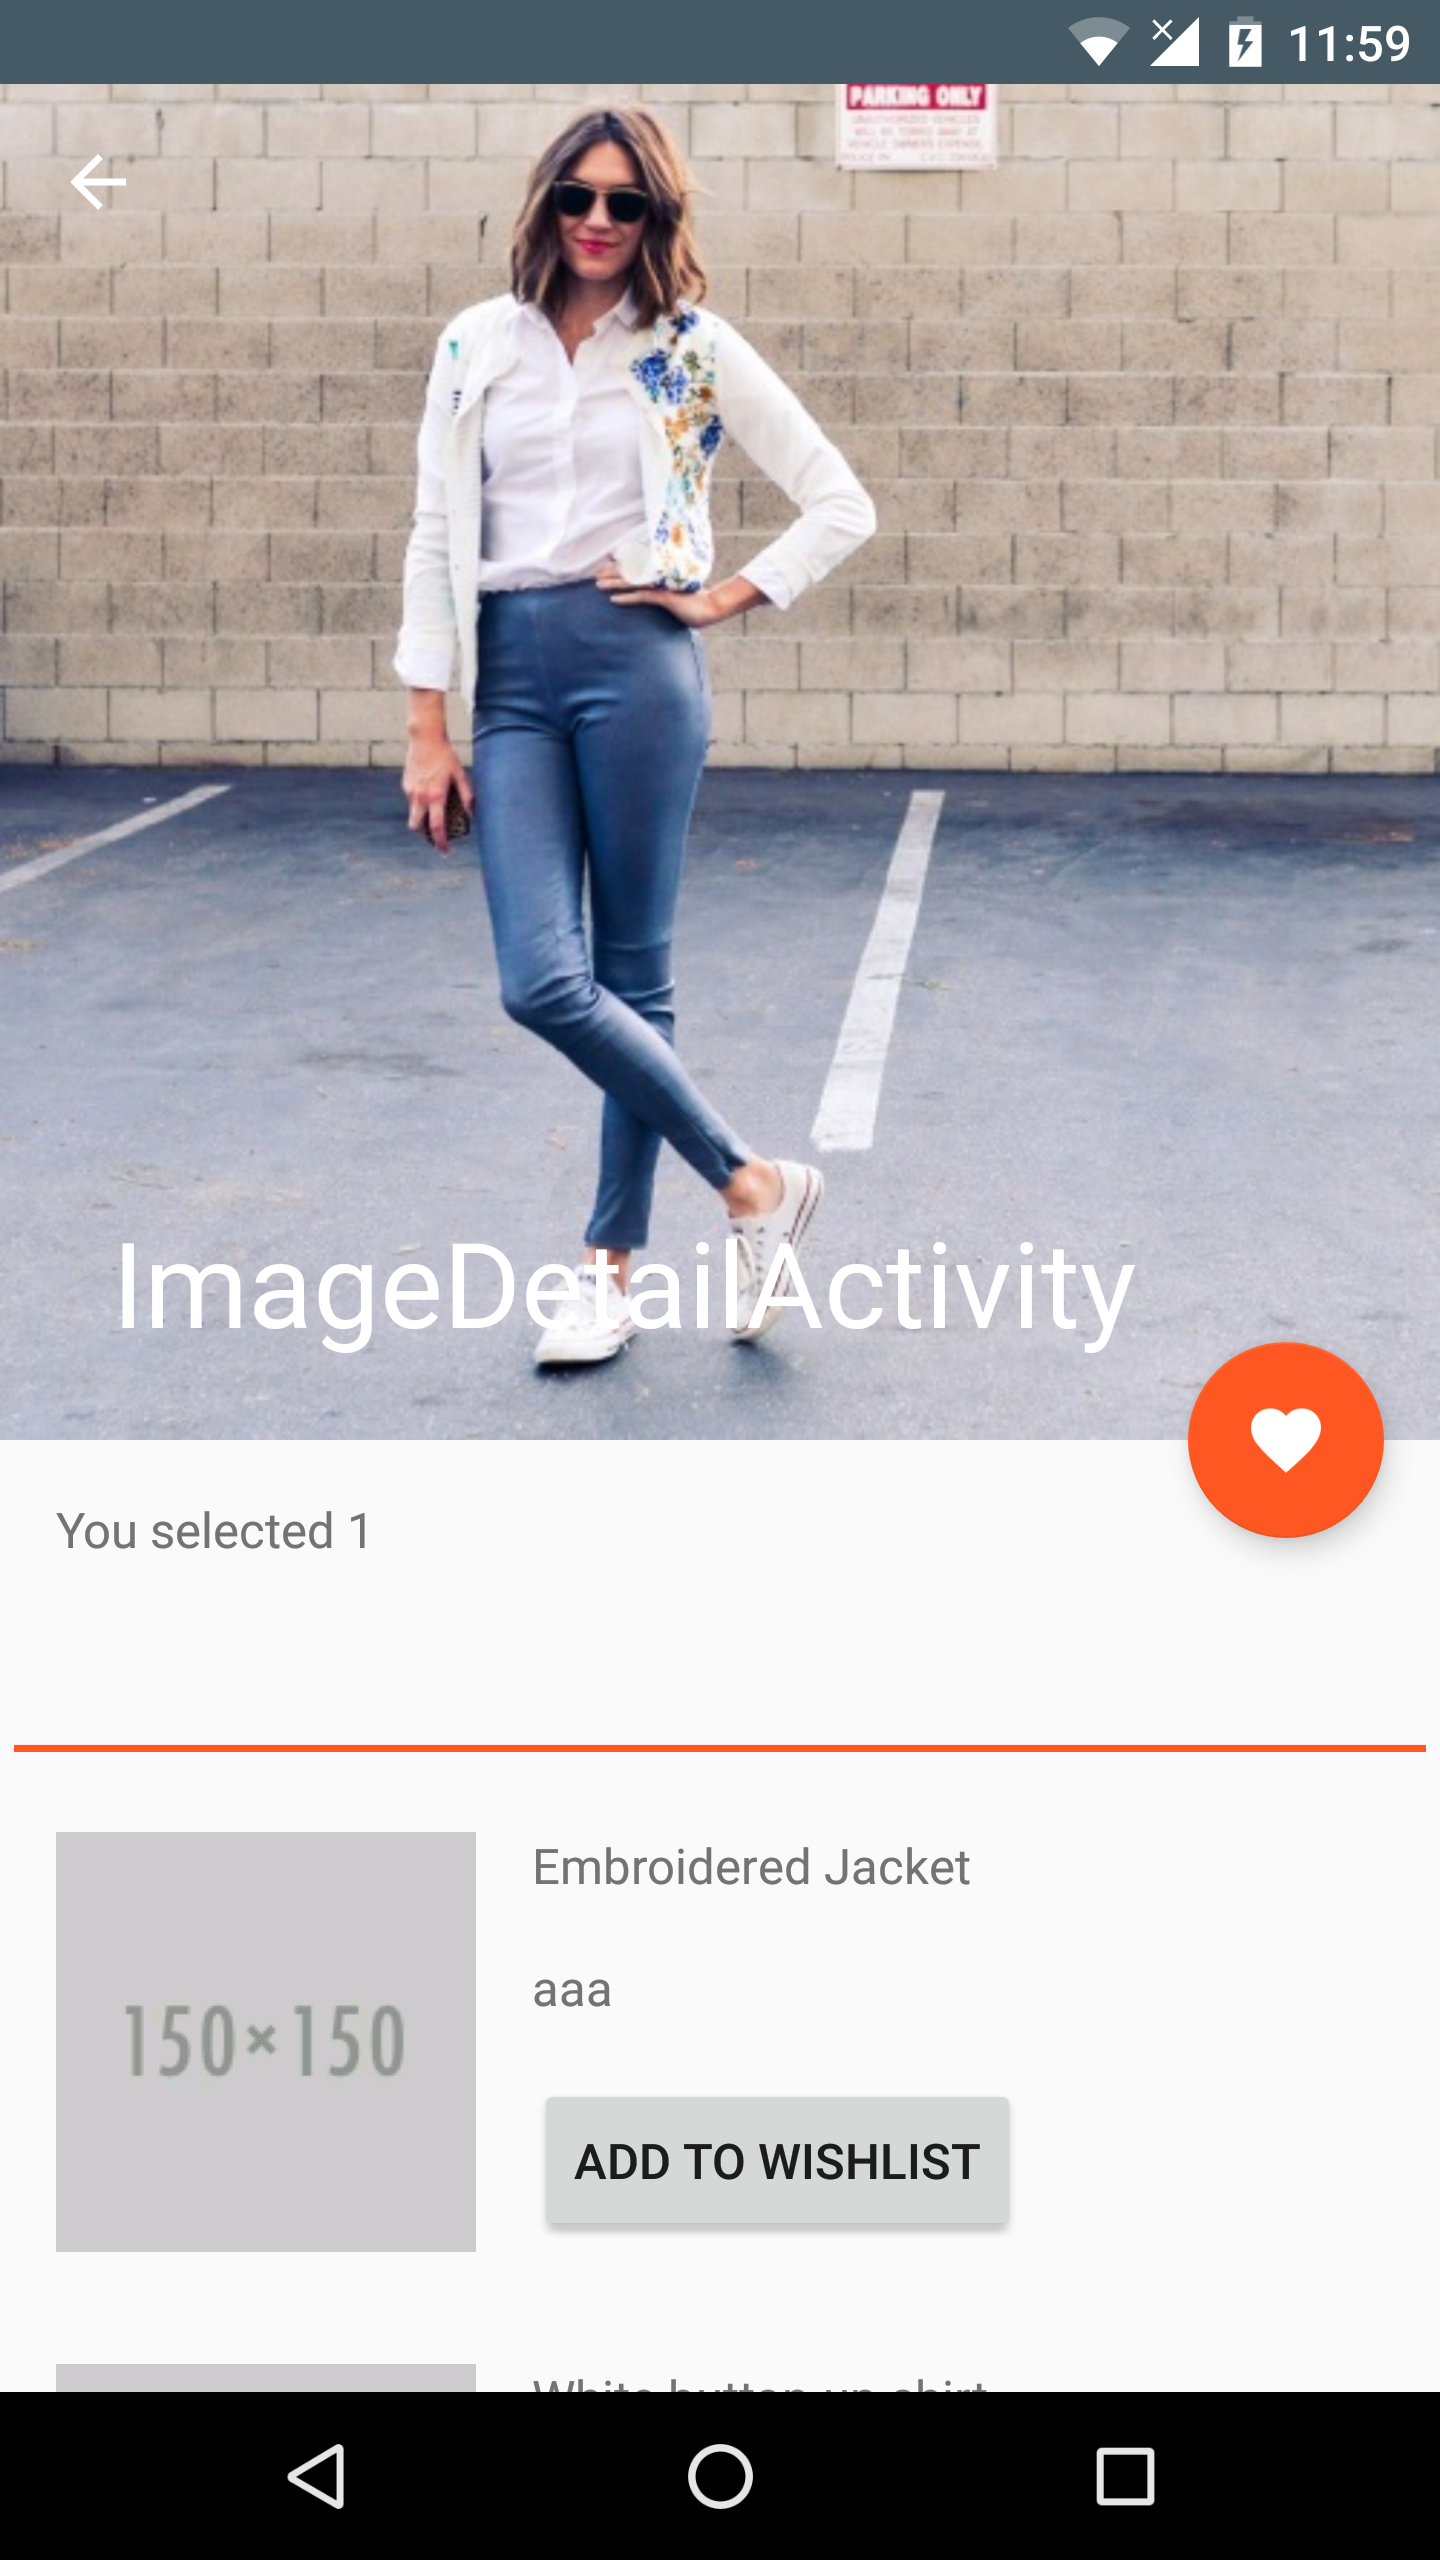
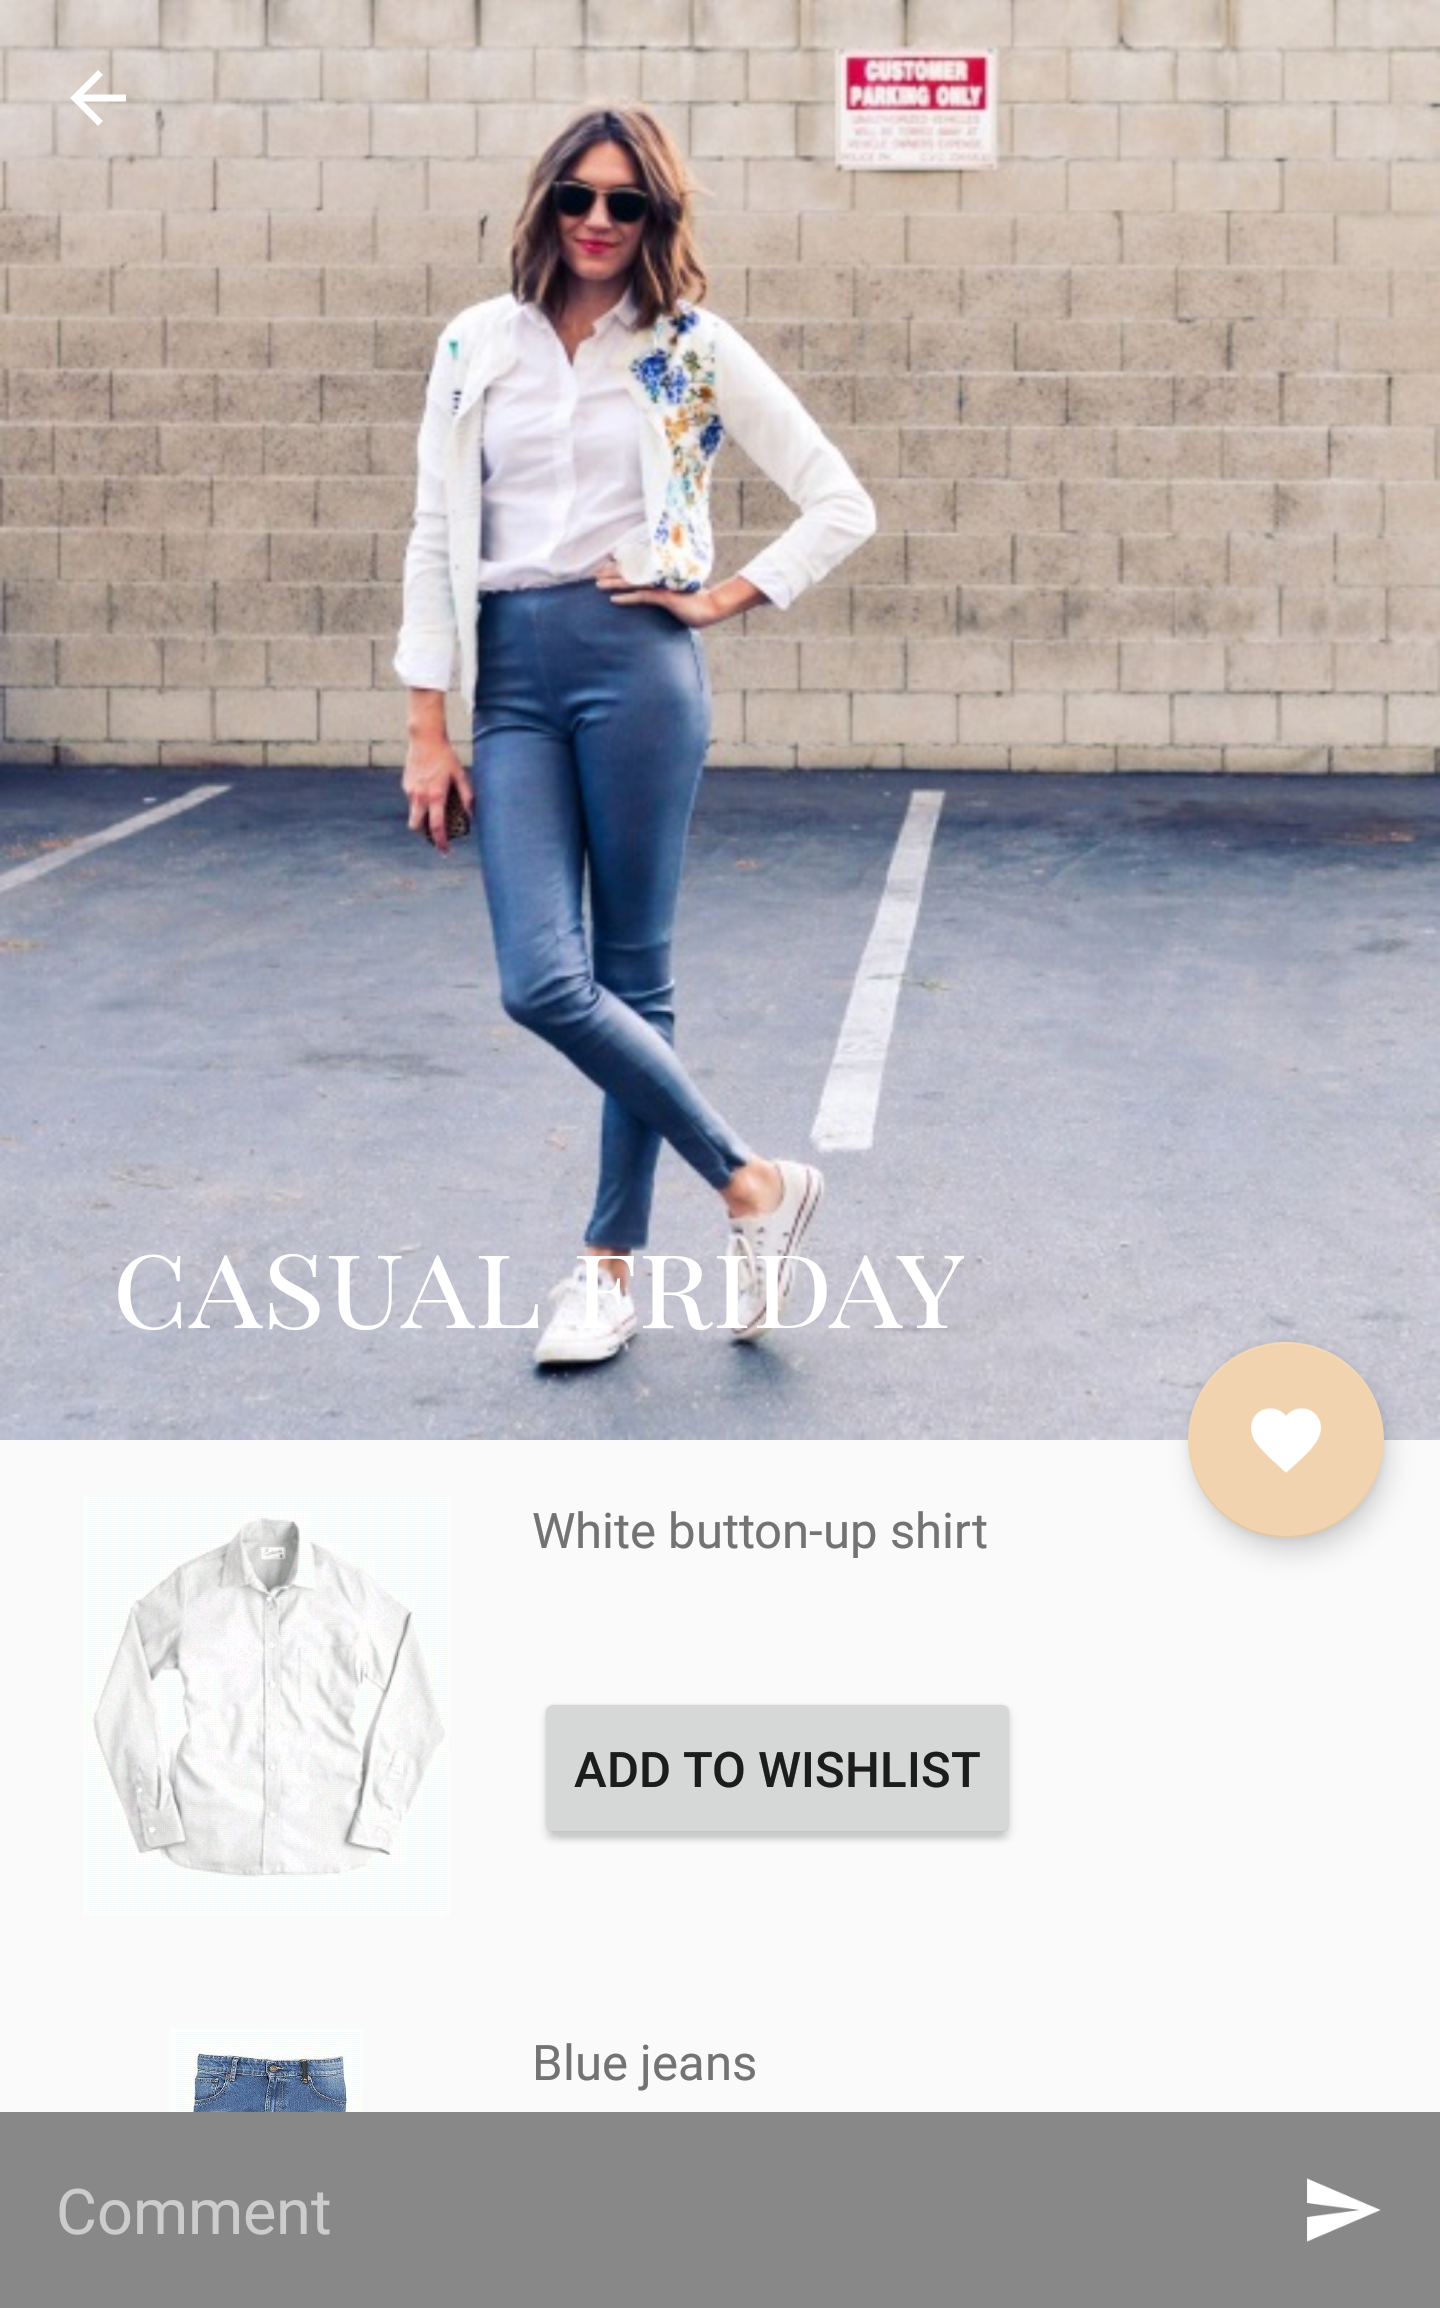
Tweak fonts and colours

diff --git a/app/src/main/java/com/qwissroll/statement/DashboardItemAdapter.java b/app/src/main/java/com/qwissroll/statement/DashboardItemAdapter.java
@@ -51,7 +51,7 @@ public class DashboardItemAdapter extends RecyclerView.Adapter<DashboardItemAdap
         int id = context.getResources().getIdentifier("ootd_" + item.getItemId(), "drawable", context.getPackageName());
         holder.mImageView.setImageDrawable(null);
         Glide.with(context).load(id).into(holder.mImageView);
-        holder.mButtonLike.setSelected(item.isLiked());
+        holder.mButtonLike.setActivated(item.isLiked());
         holder.mTextComment.setText("" + item.getComments().size());
         holder.mTextLike.setText("" + item.getLikes());
     }
@@ -62,7 +62,7 @@ public class DashboardItemAdapter extends RecyclerView.Adapter<DashboardItemAdap
             onBindViewHolder(holder, position);
         } else {
             final DashboardItem item = mItems.get(position);
-            holder.mButtonLike.setSelected(item.isLiked());
+            holder.mButtonLike.setActivated(item.isLiked());
             holder.mTextComment.setText("" + item.getComments().size());
             holder.mTextLike.setText("" + item.getLikes());
         }
@@ -122,7 +122,7 @@ public class DashboardItemAdapter extends RecyclerView.Adapter<DashboardItemAdap
                     case R.id.button_like:
                         mClickListener.onItemLikeClick(view, getAdapterPosition());
                         DashboardItem tag = mItems.get(getAdapterPosition());
-                        mButtonLike.setSelected(tag.isLiked());
+                        mButtonLike.setActivated(tag.isLiked());
                         notifyItemChanged(getAdapterPosition(), PAYLOAD_BUTTON_LIKE_CLICKED);
                         break;
                     case R.id.button_comment:

diff --git a/app/src/main/java/com/qwissroll/statement/activity/ImageDetailActivity.java b/app/src/main/java/com/qwissroll/statement/activity/ImageDetailActivity.java
@@ -1,7 +1,9 @@
 package com.qwissroll.statement.activity;
 
 import android.content.Intent;
+import android.graphics.Typeface;
 import android.os.Bundle;
+import android.support.design.widget.CollapsingToolbarLayout;
 import android.support.design.widget.FloatingActionButton;
 import android.support.design.widget.Snackbar;
 import android.support.v7.app.AppCompatActivity;
@@ -53,7 +55,13 @@ public class ImageDetailActivity extends AppCompatActivity implements DetailItem
             }
         });
 
-        getSupportActionBar().setTitle(item.getItemName());
+        getSupportActionBar().setTitle(item.getItemName().toLowerCase());
+
+        Typeface typeface = Typeface.createFromAsset(getAssets(),
+                "fonts/playfairdisplaysc_regular.ttf");
+        CollapsingToolbarLayout toolbarLayout = (CollapsingToolbarLayout) findViewById(R.id.toolbar_layout);
+        toolbarLayout.setExpandedTitleTypeface(typeface);
+        toolbarLayout.setCollapsedTitleTypeface(typeface);
 
         String imageSource = "ootd_" + itemId;
         int id = getResources().getIdentifier(imageSource, "drawable", getPackageName());

diff --git a/app/src/main/java/com/qwissroll/statement/data/ProductDataManager.java b/app/src/main/java/com/qwissroll/statement/data/ProductDataManager.java
@@ -19,9 +19,9 @@ public class ProductDataManager {
         items = new HashMap<Integer, ArrayList<DetailItem>>();
 
         ArrayList<DetailItem> first = new ArrayList<DetailItem>();
-        first.add(new DetailItem(12, "Embroidered Jacket", "aaa", false));
-        first.add(new DetailItem(15, "White button-up shirt", "aaa", false));
-        first.add(new DetailItem(23, "Blue jeans", "aaa", false));
+        first.add(new DetailItem(15, "White button-up shirt", "", false));
+        first.add(new DetailItem(23, "Blue jeans", "", false));
+        first.add(new DetailItem(12, "Embroidered Jacket", "", false));
         items.put(1, first);
 
         ArrayList<DetailItem> second = new ArrayList<DetailItem>();
